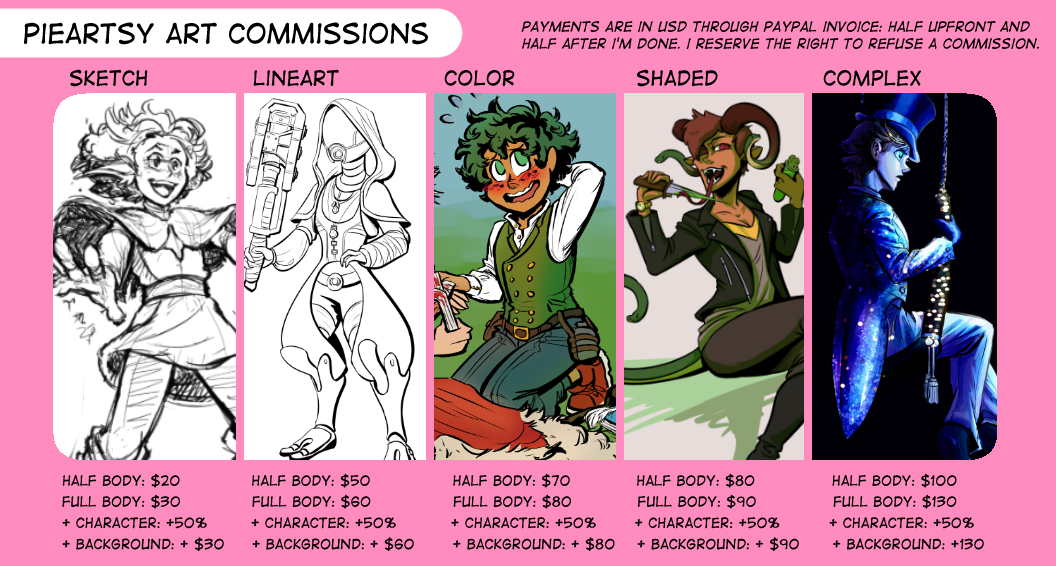
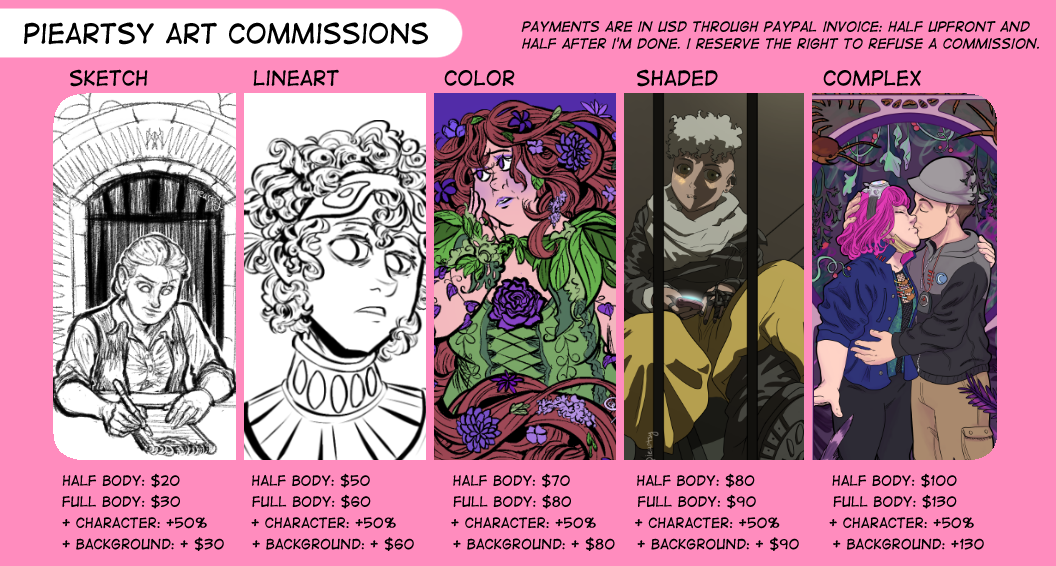
update commission art

diff --git a/art.html b/art.html
@@ -72,24 +72,24 @@
                     </div>
                 </div>
                 <div>
-                    <a href="#sorrel-modal">
+                    <a href="#asher-modal">
                         <div class="thumbnail">
-                            <img src="imgs/sorrel lion thumb.png" alt="sorrel lion thumbnail" class="img-round img-responsive">
+                            <img src="imgs/asher thumb.png" alt="asher thumbnail" class="img-round img-responsive">
                             <div class="overlay">
                                 <div class="text">Click thumbnail for full image</div>
                             </div>
                         </div>
                     </a>
-                    <div class="modal modal-lg" id="sorrel-modal">
+                    <div class="modal modal-lg" id="asher-modal">
                         <a href="#back" class="modal-overlay" aria-label="Close"></a>
                         <div class="modal-container">
                           <div class="modal-header">
                             <a href="#back" class="btn btn-clear float-right" aria-label="Close"></a>
-                            <h4>Sorrel fursona commission</h4>
+                            <h4>Asher Art Nouveau commission</h4>
                           </div>
                           <div class="modal-body">
                             <div class="content">
-                                <img src="imgs/sorrel lion.png" alt="sorrel lion full image" class="img-responsive">
+                                <img src="imgs/asher.png" alt="asher full image" class="img-responsive">
                             </div>
                           </div>
                         </div>
@@ -144,24 +144,24 @@
                     </div>
                 </div>
                 <div>
-                    <a href="#roses-modal">
+                    <a href="#bret-modal">
                         <div class="thumbnail">
-                            <img src="imgs/roses thumb.png" alt="roses thumbnail" class="img-round img-responsive">
+                            <img src="imgs/bret thumb.png" alt="bret thumbnail" class="img-round img-responsive">
                             <div class="overlay">
                                 <div class="text">Click thumbnail for full image</div>
                             </div>
                         </div>
                     </a>
-                    <div class="modal modal-lg" id="roses-modal">
+                    <div class="modal modal-lg" id="bret-modal">
                         <a href="#back" class="modal-overlay" aria-label="Close"></a>
                         <div class="modal-container">
                           <div class="modal-header">
                             <a href="#back" class="btn btn-clear float-right" aria-label="Close"></a>
-                            <h4>Roses</h4>
+                            <h4>Bret D&D commission</h4>
                           </div>
                           <div class="modal-body">
                             <div class="content">
-                                <img src="imgs/roses.png" alt="roses full image" class="img-responsive">
+                                <img src="imgs/bret.png" alt="roses full image" class="img-responsive">
                             </div>
                           </div>
                         </div>
